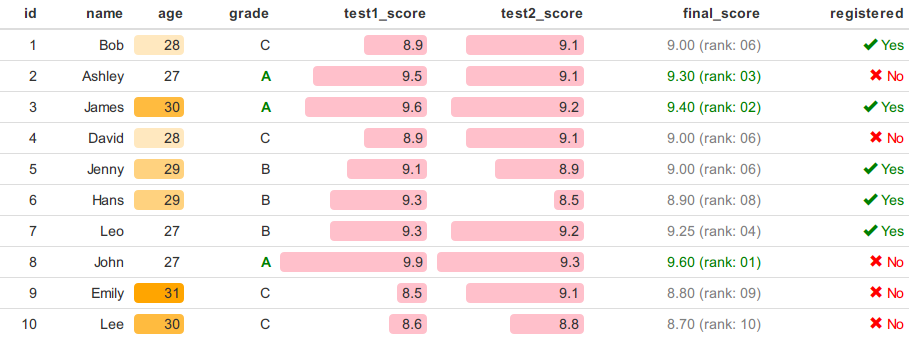
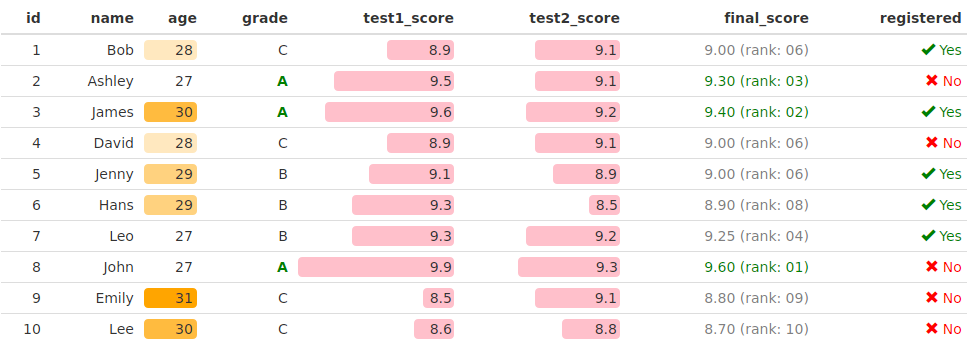
update formattable data frame example in readme

diff --git a/README.md b/README.md
@@ -189,14 +189,13 @@ library(formattable)
 
 formattable(df, list(
   age = color_tile("white", "orange"),
-  grade = formatter("span",
-    style = x ~ ifelse(x == "A", style(color = "green", font.weight = "bold"), NA)),
-  test1_score = normalize_bar("pink", 0.2),
-  test2_score = normalize_bar("pink", 0.2),
+  grade = formatter("span", style = x ~ ifelse(x == "A", 
+    style(color = "green", font.weight = "bold"), NA)),
+  area(col = c(test1_score, test2_score)) ~ normalize_bar("pink", 0.2),
   final_score = formatter("span",
     style = x ~ style(color = ifelse(rank(-x) <= 3, "green", "gray")),
     x ~ sprintf("%.2f (rank: %02d)", x, rank(-x))),
-  registered = formatter("span", 
+  registered = formatter("span",
     style = x ~ style(color = ifelse(x, "green", "red")),
     x ~ icontext(ifelse(x, "ok", "remove"), ifelse(x, "Yes", "No")))
 ))
